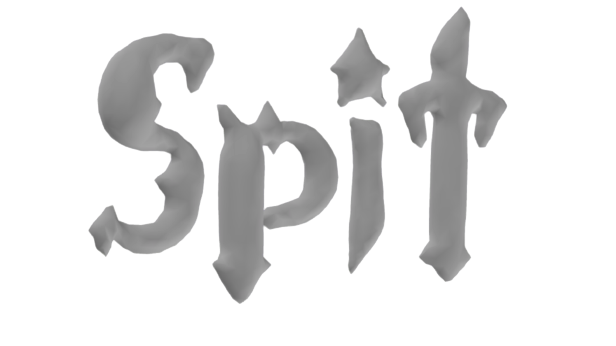
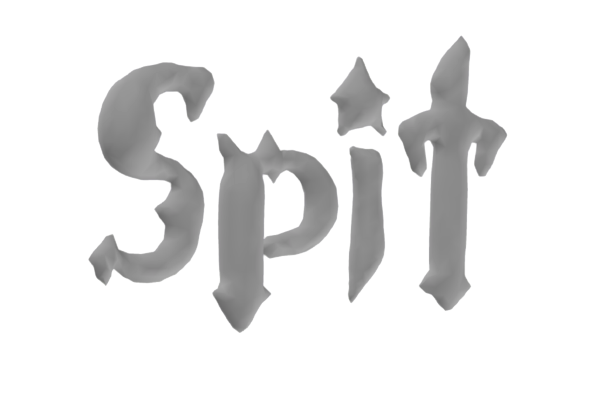
bounce added

diff --git a/index2.html b/index2.html
@@ -111,16 +111,16 @@
                 <img src="./css/ssfrnobg/c-46-removebg-preview.png" class="slideimg" alt="babey"> -->
 
                 
-                <img src="./css/ssfrnobg1/a-1-removebg-preview.png" class="slideimg" alt="babey">
-                <img src="./css/ssfrnobg1/a-2-removebg-preview.png" class="slideimg" alt="babey">
-                <img src="./css/ssfrnobg1/a-3-removebg-preview.png" class="slideimg" alt="babey">
-                <img src="./css/ssfrnobg1/a-4-removebg-preview.png" class="slideimg" alt="babey">
-                <img src="./css/ssfrnobg1/a-5-removebg-preview.png" class="slideimg" alt="babey">
-                <img src="./css/ssfrnobg1/a-6-removebg-preview.png" class="slideimg" alt="babey">
-                <img src="./css/ssfrnobg1/a-7-removebg-preview.png" class="slideimg" alt="babey">
-                <img src="./css/ssfrnobg1/a-8-removebg-preview.png" class="slideimg" alt="babey">
-                <img src="./css/ssfrnobg1/a-9-removebg-preview.png" class="slideimg" alt="babey">
-                <img src="./css/ssfrnobg1/a-10-removebg-preview.png" class="slideimg" alt="babey">
+                <img src="./css/ssfrnobg1/a-1-removebg-preview.png" class="slideimg" alt="babey1">
+                <img src="./css/ssfrnobg1/a-2-removebg-preview.png" class="slideimg" alt="babey2">
+                <img src="./css/ssfrnobg1/a-3-removebg-preview.png" class="slideimg" alt="babey3">
+                <img src="./css/ssfrnobg1/a-4-removebg-preview.png" class="slideimg" alt="babey4">
+                <img src="./css/ssfrnobg1/a-5-removebg-preview.png" class="slideimg" alt="babey5">
+                <img src="./css/ssfrnobg1/a-6-removebg-preview.png" class="slideimg" alt="babey6">
+                <img src="./css/ssfrnobg1/a-7-removebg-preview.png" class="slideimg" alt="babey7">
+                <img src="./css/ssfrnobg1/a-8-removebg-preview.png" class="slideimg" alt="babey8">
+                <img src="./css/ssfrnobg1/a-9-removebg-preview.png" class="slideimg" alt="babey9">
+                <img src="./css/ssfrnobg1/a-10-removebg-preview.png" class="slideimg" alt="babey10">
                 <img src="./css/ssfrnobg1/a-11-removebg-preview.png" class="slideimg" alt="babey">
                 <img src="./css/ssfrnobg1/a-12-removebg-preview.png" class="slideimg" alt="babey">
                 <img src="./css/ssfrnobg1/a-13-removebg-preview.png" class="slideimg" alt="babey">
@@ -204,7 +204,7 @@
                 <img src="./css/ssfrnobg1/c-46-removebg-preview.png" class="slideimg" alt="babey">
 
             </div>
-            <div class="mbbox" style="max-width:300px;">
+            <div class="mbbox bounce" style="max-width:300px;">
                 <img src="./css/mbsd/mbd1.png" class="slideimg" alt="babey">
                 <img src="./css/mbsd/mbd2.png" class="slideimg" alt="babey">
                 <img src="./css/mbsd/mbd3.png" class="slideimg" alt="babey">

diff --git a/css/ssstyles2.css b/css/ssstyles2.css
@@ -366,13 +366,27 @@ body {
 
 
 
+/* .bounce {
+   position: absolute;
+   width: 100%;
+   height: 15px;
+   z-index: 10;
+   transform: translateY(135%);
+   animation: move 3s cubic-bezier(0.15, 0.44, 0.76, 0.64);
+   animation-iteration-count: infinite;
+ }
+
+@keyframes move {
+ 0%, 100% { transform: translateY(100%); }
+ 50% { transform: translateY(0%); }
+ 75% { transform: translateY(145%); }
+} */
 
 
 
 
 
-
-
+/* 
  .ocrloader {
    width: 100vw;
    height: 100vh;
@@ -399,7 +413,7 @@ body {
    0%, 100% { transform: translateY(8035%); }
    50% { transform: translateY(0%); }
    75% { transform: translateY(272%); }
- }
+ } */
 
  /* scan line animation is set to infinite,
  if set to time-anim it will play once but would need
